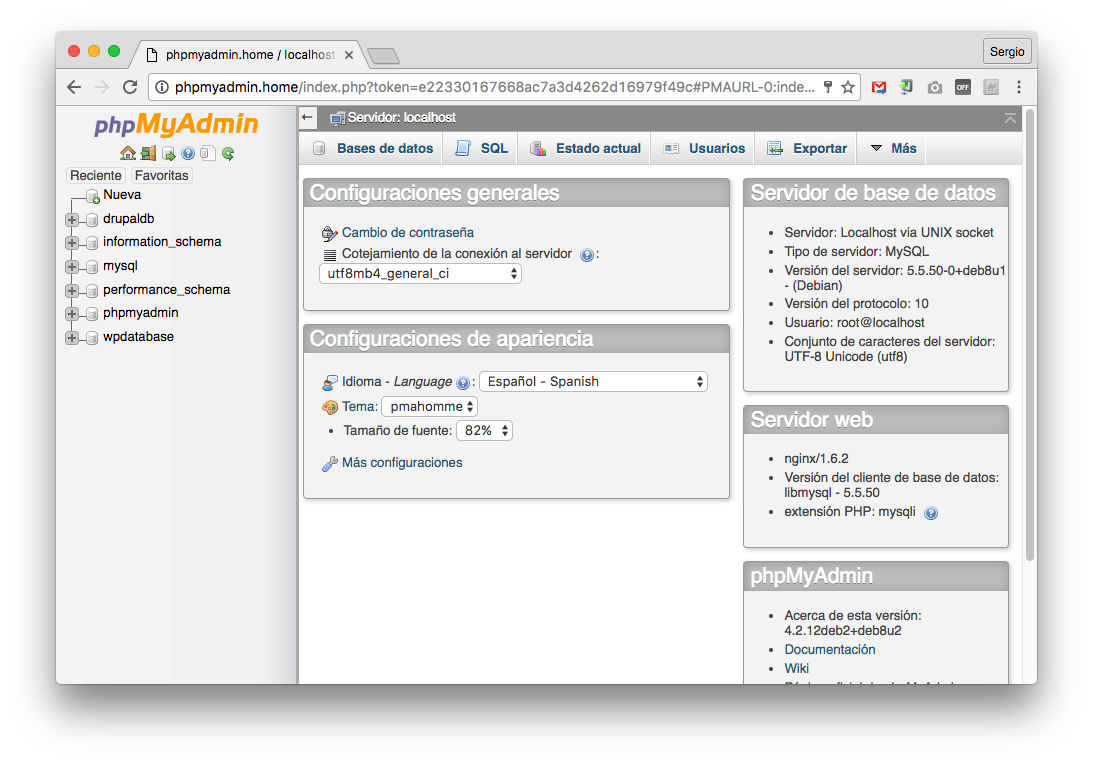
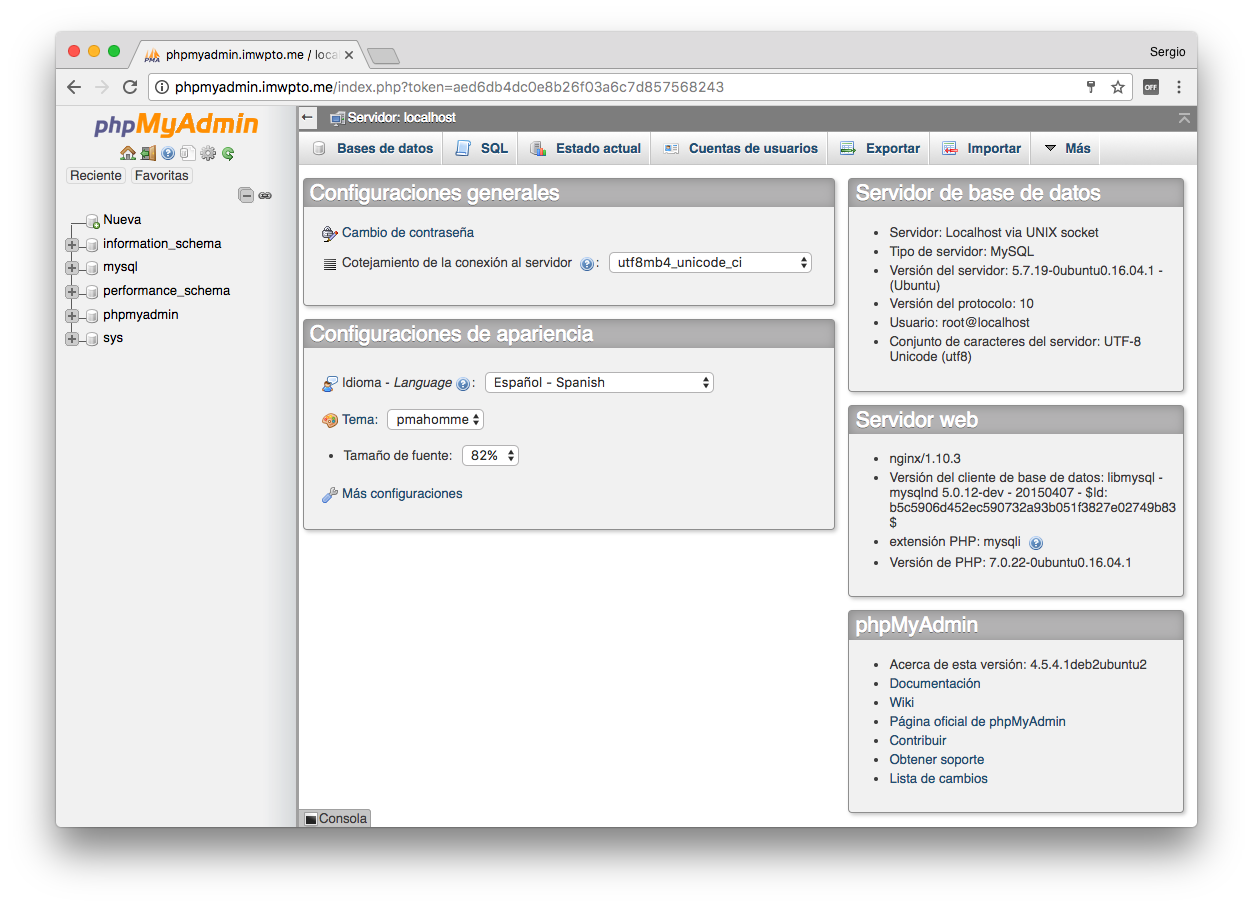
Updated contents of PhpMyAdmin

Changed region(s): [[0.0311, 0.0301, 0.9643, 0.9634]]

diff --git a/imw/UT1/notes/phpmyadmin/README.md b/imw/UT1/notes/phpmyadmin/README.md
@@ -9,75 +9,215 @@ La herramienta más extendida para ello se denomina **phpMyAdmin**. Está implem
 Para su instalación, usaremos el paquete preparado a tal efecto:
 
 ```console
-root@hillvalley:~# apt-get install phpmyadmin
+sdelquin@cloud:~$ sudo apt-get install phpmyadmin
 Leyendo lista de paquetes... Hecho
 Creando árbol de dependencias
 Leyendo la información de estado... Hecho
-Se instalarán los siguientes paquetes extras:
-  dbconfig-common libjs-sphinxdoc libjs-underscore libltdl7 libmcrypt4 php-gettext php-tcpdf php5-gd php5-mcrypt
-  php5-mysql
+Se instalarán los siguientes paquetes adicionales:
+  dbconfig-common dbconfig-mysql javascript-common libjs-jquery libjs-sphinxdoc libjs-underscore
+  libmcrypt4 php-gd php-gettext php-mbstring php-mcrypt php-mysql php-pear php-phpseclib php-tcpdf
+  php-xml php7.0-gd php7.0-mbstring php7.0-mcrypt php7.0-mysql php7.0-xml
 Paquetes sugeridos:
-  libmcrypt-dev mcrypt php5-imagick
+  libmcrypt-dev mcrypt php-libsodium php-gmp php-imagick www-browser
 Se instalarán los siguientes paquetes NUEVOS:
-  dbconfig-common libjs-sphinxdoc libjs-underscore libltdl7 libmcrypt4 php-gettext php-tcpdf php5-gd php5-mcrypt
-  php5-mysql phpmyadmin
-0 actualizados, 11 nuevos se instalarán, 0 para eliminar y 0 no actualizados.
-Se necesita descargar 12,7 MB de archivos.
-Se utilizarán 47,2 MB de espacio de disco adicional después de esta operación.
+  dbconfig-common dbconfig-mysql javascript-common libjs-jquery libjs-sphinxdoc libjs-underscore
+  libmcrypt4 php-gd php-gettext php-mbstring php-mcrypt php-mysql php-pear php-phpseclib php-tcpdf
+  php-xml php7.0-gd php7.0-mbstring php7.0-mcrypt php7.0-mysql php7.0-xml phpmyadmin
+0 actualizados, 22 nuevos se instalarán, 0 para eliminar y 22 no actualizados.
+Se necesita descargar 12,6 MB/14,0 MB de archivos.
+Se utilizarán 54,0 MB de espacio de disco adicional después de esta operación.
 ¿Desea continuar? [S/n]
-Des:1 http://ftp.es.debian.org/debian/ jessie/main libltdl7 amd64 2.4.2-1.11 [45,2 kB]
-Des:2 http://security.debian.org/ jessie/updates/main php5-gd amd64 5.6.24+dfsg-0+deb8u1 [28,8 kB]
-Des:3 http://ftp.es.debian.org/debian/ jessie/main dbconfig-common all 1.8.47+nmu3+deb8u1 [628 kB]
-Des:4 http://security.debian.org/ jessie/updates/main php5-mcrypt amd64 5.6.24+dfsg-0+deb8u1 [15,5 kB]
-Des:5 http://security.debian.org/ jessie/updates/main php5-mysql amd64 5.6.24+dfsg-0+deb8u1 [65,1 kB]
-Des:6 http://ftp.es.debian.org/debian/ jessie/main libjs-underscore all 1.7.0~dfsg-1 [49,9 kB]
-Des:7 http://security.debian.org/ jessie/updates/main phpmyadmin all 4:4.2.12-2+deb8u2 [3.853 kB]
-Des:8 http://ftp.es.debian.org/debian/ jessie/main libjs-sphinxdoc all 1.2.3+dfsg-1 [41,1 kB]
-Des:9 http://ftp.es.debian.org/debian/ jessie/main libmcrypt4 amd64 2.5.8-3.3 [71,2 kB]
-Des:10 http://ftp.es.debian.org/debian/ jessie/main php-gettext all 1.0.11-1 [17,3 kB]
-Des:11 http://ftp.es.debian.org/debian/ jessie/main php-tcpdf all 6.0.093+dfsg-1 [7.878 kB]
-Descargados 12,7 MB en 1s (8.743 kB/s)
+Des:1 http://ams2.mirrors.digitalocean.com/ubuntu xenial-updates/universe amd64 php7.0-mbstring amd64 7.0.22-0ubuntu0.16.04.1 [466 kB]
+Des:2 http://ams2.mirrors.digitalocean.com/ubuntu xenial/universe amd64 php-mbstring all 1:7.0+35ubuntu6 [1.940 B]
+Des:3 http://ams2.mirrors.digitalocean.com/ubuntu xenial-updates/universe amd64 php7.0-mcrypt amd64 7.0.22-0ubuntu0.16.04.1 [14,5 kB]
+Des:4 http://ams2.mirrors.digitalocean.com/ubuntu xenial/universe amd64 php-mcrypt all 1:7.0+35ubuntu6 [1.930 B]
+Des:5 http://ams2.mirrors.digitalocean.com/ubuntu xenial-updates/main amd64 php7.0-mysql amd64 7.0.22-0ubuntu0.16.04.1 [124 kB]
+Des:6 http://ams2.mirrors.digitalocean.com/ubuntu xenial/main amd64 php-mysql all 1:7.0+35ubuntu6 [1.936 B]
+Des:7 http://ams2.mirrors.digitalocean.com/ubuntu xenial/universe amd64 php-phpseclib all 2.0.1-1build1 [173 kB]
+Des:8 http://ams2.mirrors.digitalocean.com/ubuntu xenial/universe amd64 php-tcpdf all 6.0.093+dfsg-1ubuntu1 [7.881 kB]
+Des:9 http://ams2.mirrors.digitalocean.com/ubuntu xenial-updates/universe amd64 phpmyadmin all 4:4.5.4.1-2ubuntu2 [3.934 kB]
+Descargados 12,5 MB en 52s (236 kB/s)
 Preconfigurando paquetes ...
 ```
 
 El programa de instalación nos abrirá varios diálogos para configurar nuestro *phpMyAdmin*. En primer lugar nos pregunta por el servidor web que vamos a utilizar. Las dos únicas alternativas que ofrece son:
-* apache2
-* lighthttpd
+* `apache2`
+* `lighthttpd`
 
-Dado que nosotros utilizamos *Nginx*, lo dejamos en blanco y pulsamos en <kbd>Aceptar</kbd>:
+Dado que nosotros utilizamos *Nginx*, lo dejamos en blanco y pulsamos en <kbd>Ok</kbd>:
 
 ![](img/phpmyadmin01.png)
 
-A continuación el programa de instalación debe crear una base de datos para que *phpMyAdmin* pueda trabajar. Pulsamos el botón <kbd>Sí</kbd>
+A continuación el programa de instalación debe crear una base de datos para que *phpMyAdmin* pueda trabajar. Pulsamos el botón <kbd>Yes</kbd>
 
 ![](img/phpmyadmin02.png)
 
-Para ello, nos solicita la contraseña del usuario `root` de **MySQL**:
+En la siguiente pantalla nos solicita una contraseña con la que registrar la base de datos en *MySQL*:
+
+> Ojo que tenemos que cumplir con la directiva de seguridad de contraseñas establecidas en el servidor *MySQL*.
 
 ![](img/phpmyadmin03.png)
 
-El programa de instalación también creará un usuario y una contraseña específicos, que son los que se usarán para acceder a la base de datos. En la siguiente pantalla es donde debemos crear una contraseña de acceso a la base de datos para *phpMyAdmin*:
+Volvemos a repetir la contraseña:
 
 ![](img/phpmyadmin04.png)
 
-Después de esto, el programa de instalación termina de configurar los paquetes pendientes. Pero aún no hemos acabado, ya que debemos configurar nuestro **Nginx** para que pueda servir **phpMyAdmin**.
-
-Vamos a crear un *virtual host* para la url `http://phpmyadmin.ies` que nos permita trabajar con la plataforma:
+Después de esto, el programa de instalación termina de configurar los paquetes pendientes:
 
 ```console
-root@hillvalley:~# vi /etc/nginx/sites-available/phpmyadmin
+Seleccionando el paquete dbconfig-common previamente no seleccionado.
+(Leyendo la base de datos ... 86287 ficheros o directorios instalados actualmente.)
+Preparando para desempaquetar .../dbconfig-common_2.0.4ubuntu1_all.deb ...
+Desempaquetando dbconfig-common (2.0.4ubuntu1) ...
+Seleccionando el paquete dbconfig-mysql previamente no seleccionado.
+Preparando para desempaquetar .../dbconfig-mysql_2.0.4ubuntu1_all.deb ...
+Desempaquetando dbconfig-mysql (2.0.4ubuntu1) ...
+Seleccionando el paquete javascript-common previamente no seleccionado.
+Preparando para desempaquetar .../javascript-common_11_all.deb ...
+Desempaquetando javascript-common (11) ...
+Seleccionando el paquete libjs-jquery previamente no seleccionado.
+Preparando para desempaquetar .../libjs-jquery_1.11.3+dfsg-4_all.deb ...
+Desempaquetando libjs-jquery (1.11.3+dfsg-4) ...
+Seleccionando el paquete libjs-underscore previamente no seleccionado.
+Preparando para desempaquetar .../libjs-underscore_1.7.0~dfsg-1ubuntu1_all.deb ...
+Desempaquetando libjs-underscore (1.7.0~dfsg-1ubuntu1) ...
+Seleccionando el paquete libjs-sphinxdoc previamente no seleccionado.
+Preparando para desempaquetar .../libjs-sphinxdoc_1.3.6-2ubuntu1.1_all.deb ...
+Desempaquetando libjs-sphinxdoc (1.3.6-2ubuntu1.1) ...
+Seleccionando el paquete libmcrypt4 previamente no seleccionado.
+Preparando para desempaquetar .../libmcrypt4_2.5.8-3.3_amd64.deb ...
+Desempaquetando libmcrypt4 (2.5.8-3.3) ...
+Seleccionando el paquete php7.0-gd previamente no seleccionado.
+Preparando para desempaquetar .../php7.0-gd_7.0.22-0ubuntu0.16.04.1_amd64.deb ...
+Desempaquetando php7.0-gd (7.0.22-0ubuntu0.16.04.1) ...
+Seleccionando el paquete php-gd previamente no seleccionado.
+Preparando para desempaquetar .../php-gd_1%3a7.0+35ubuntu6_all.deb ...
+Desempaquetando php-gd (1:7.0+35ubuntu6) ...
+Seleccionando el paquete php7.0-xml previamente no seleccionado.
+Preparando para desempaquetar .../php7.0-xml_7.0.22-0ubuntu0.16.04.1_amd64.deb ...
+Desempaquetando php7.0-xml (7.0.22-0ubuntu0.16.04.1) ...
+Seleccionando el paquete php-xml previamente no seleccionado.
+Preparando para desempaquetar .../php-xml_1%3a7.0+35ubuntu6_all.deb ...
+Desempaquetando php-xml (1:7.0+35ubuntu6) ...
+Seleccionando el paquete php-pear previamente no seleccionado.
+Preparando para desempaquetar .../php-pear_1%3a1.10.1+submodules+notgz-6_all.deb ...
+Desempaquetando php-pear (1:1.10.1+submodules+notgz-6) ...
+Seleccionando el paquete php-gettext previamente no seleccionado.
+Preparando para desempaquetar .../php-gettext_1.0.11-2build1_all.deb ...
+Desempaquetando php-gettext (1.0.11-2build1) ...
+Seleccionando el paquete php7.0-mbstring previamente no seleccionado.
+Preparando para desempaquetar .../php7.0-mbstring_7.0.22-0ubuntu0.16.04.1_amd64.deb ...
+Desempaquetando php7.0-mbstring (7.0.22-0ubuntu0.16.04.1) ...
+Seleccionando el paquete php-mbstring previamente no seleccionado.
+Preparando para desempaquetar .../php-mbstring_1%3a7.0+35ubuntu6_all.deb ...
+Desempaquetando php-mbstring (1:7.0+35ubuntu6) ...
+Seleccionando el paquete php7.0-mcrypt previamente no seleccionado.
+Preparando para desempaquetar .../php7.0-mcrypt_7.0.22-0ubuntu0.16.04.1_amd64.deb ...
+Desempaquetando php7.0-mcrypt (7.0.22-0ubuntu0.16.04.1) ...
+Seleccionando el paquete php-mcrypt previamente no seleccionado.
+Preparando para desempaquetar .../php-mcrypt_1%3a7.0+35ubuntu6_all.deb ...
+Desempaquetando php-mcrypt (1:7.0+35ubuntu6) ...
+Seleccionando el paquete php7.0-mysql previamente no seleccionado.
+Preparando para desempaquetar .../php7.0-mysql_7.0.22-0ubuntu0.16.04.1_amd64.deb ...
+Desempaquetando php7.0-mysql (7.0.22-0ubuntu0.16.04.1) ...
+Seleccionando el paquete php-mysql previamente no seleccionado.
+Preparando para desempaquetar .../php-mysql_1%3a7.0+35ubuntu6_all.deb ...
+Desempaquetando php-mysql (1:7.0+35ubuntu6) ...
+Seleccionando el paquete php-phpseclib previamente no seleccionado.
+Preparando para desempaquetar .../php-phpseclib_2.0.1-1build1_all.deb ...
+Desempaquetando php-phpseclib (2.0.1-1build1) ...
+Seleccionando el paquete php-tcpdf previamente no seleccionado.
+Preparando para desempaquetar .../php-tcpdf_6.0.093+dfsg-1ubuntu1_all.deb ...
+Desempaquetando php-tcpdf (6.0.093+dfsg-1ubuntu1) ...
+Seleccionando el paquete phpmyadmin previamente no seleccionado.
+Preparando para desempaquetar .../phpmyadmin_4%3a4.5.4.1-2ubuntu2_all.deb ...
+Desempaquetando phpmyadmin (4:4.5.4.1-2ubuntu2) ...
+Procesando disparadores para man-db (2.7.5-1) ...
+Procesando disparadores para php7.0-fpm (7.0.22-0ubuntu0.16.04.1) ...
+Configurando dbconfig-common (2.0.4ubuntu1) ...
+
+Creating config file /etc/dbconfig-common/config with new version
+Configurando dbconfig-mysql (2.0.4ubuntu1) ...
+Configurando javascript-common (11) ...
+Configurando libjs-jquery (1.11.3+dfsg-4) ...
+Configurando libjs-underscore (1.7.0~dfsg-1ubuntu1) ...
+Configurando libjs-sphinxdoc (1.3.6-2ubuntu1.1) ...
+Configurando libmcrypt4 (2.5.8-3.3) ...
+Configurando php7.0-gd (7.0.22-0ubuntu0.16.04.1) ...
+
+Creating config file /etc/php/7.0/mods-available/gd.ini with new version
+Configurando php-gd (1:7.0+35ubuntu6) ...
+Configurando php7.0-xml (7.0.22-0ubuntu0.16.04.1) ...
+
+Creating config file /etc/php/7.0/mods-available/dom.ini with new version
+
+Creating config file /etc/php/7.0/mods-available/simplexml.ini with new version
+
+Creating config file /etc/php/7.0/mods-available/wddx.ini with new version
+
+Creating config file /etc/php/7.0/mods-available/xml.ini with new version
+
+Creating config file /etc/php/7.0/mods-available/xmlreader.ini with new version
+
+Creating config file /etc/php/7.0/mods-available/xmlwriter.ini with new version
+
+Creating config file /etc/php/7.0/mods-available/xsl.ini with new version
+Configurando php-xml (1:7.0+35ubuntu6) ...
+Configurando php-pear (1:1.10.1+submodules+notgz-6) ...
+Configurando php-gettext (1.0.11-2build1) ...
+Configurando php7.0-mbstring (7.0.22-0ubuntu0.16.04.1) ...
+
+Creating config file /etc/php/7.0/mods-available/mbstring.ini with new version
+Configurando php-mbstring (1:7.0+35ubuntu6) ...
+Configurando php7.0-mcrypt (7.0.22-0ubuntu0.16.04.1) ...
+
+Creating config file /etc/php/7.0/mods-available/mcrypt.ini with new version
+Configurando php-mcrypt (1:7.0+35ubuntu6) ...
+Configurando php7.0-mysql (7.0.22-0ubuntu0.16.04.1) ...
+
+Creating config file /etc/php/7.0/mods-available/mysqlnd.ini with new version
+
+Creating config file /etc/php/7.0/mods-available/mysqli.ini with new version
+
+Creating config file /etc/php/7.0/mods-available/pdo_mysql.ini with new version
+Configurando php-mysql (1:7.0+35ubuntu6) ...
+Configurando php-phpseclib (2.0.1-1build1) ...
+Configurando php-tcpdf (6.0.093+dfsg-1ubuntu1) ...
+Configurando phpmyadmin (4:4.5.4.1-2ubuntu2) ...
+Determining localhost credentials from /etc/mysql/debian.cnf: succeeded.
+dbconfig-common: writing config to /etc/dbconfig-common/phpmyadmin.conf
+
+Creating config file /etc/dbconfig-common/phpmyadmin.conf with new version
+
+Creating config file /etc/phpmyadmin/config-db.php with new version
+granting access to database phpmyadmin for phpmyadmin@localhost: success.
+verifying access for phpmyadmin@localhost: success.
+creating database phpmyadmin: success.
+verifying database phpmyadmin exists: success.
+populating database via sql...  done.
+dbconfig-common: flushing administrative password
+sdelquin@cloud:~$
+```
+
+## Activación en Nginx
+
+Pero aún no hemos acabado, ya que debemos configurar nuestro **Nginx** para que pueda servir **phpMyAdmin**.
+
+Vamos a crear un *virtual host* para la url `http://phpmyadmin.imwpto.me` que nos permita trabajar con la plataforma:
+
+```console
+sdelquin@cloud:~$ sudo vi /etc/nginx/sites-available/phpmyadmin
 ```
 
 > Contenido
 ```nginx
 server {
-    server_name phpmyadmin.home;
+    server_name phpmyadmin.imwpto.me;
     index index.php;
     root /usr/share/phpmyadmin;
     location ~ \.php$ {
-        try_files $uri =404;
         include snippets/fastcgi-php.conf;
-        fastcgi_pass unix:/var/run/php5-fpm.sock;
+        fastcgi_pass unix:/run/php/php7.0-fpm.sock;
     }
 }
 ```
@@ -85,16 +225,24 @@ server {
 Ahora enlazamos el *virtual host* en los sitios disponibles:
 
 ```console
-root@hillvalley:~# cd /etc/nginx/sites-enabled/
-root@hillvalley:/etc/nginx/sites-enabled# ln -s ../sites-available/phpmyadmin
+sdelquin@cloud:~$ cd /etc/nginx/sites-enabled/
+sdelquin@cloud:/etc/nginx/sites-enabled$ sudo ln -s ../sites-available/phpmyadmin
+[sudo] password for sdelquin:
+sdelquin@cloud:/etc/nginx/sites-enabled$ ls -l
+total 0
+lrwxrwxrwx 1 root root 34 sep 21 15:09 default -> /etc/nginx/sites-available/default
+lrwxrwxrwx 1 root root 24 oct  1 10:37 hello -> ../sites-available/hello
+lrwxrwxrwx 1 root root 29 oct  1 16:36 phpmyadmin -> ../sites-available/phpmyadmin
+lrwxrwxrwx 1 root root 24 sep 24 13:52 share -> ../sites-available/share
+lrwxrwxrwx 1 root root 22 sep 24 17:14 ssl -> ../sites-available/ssl
+sdelquin@cloud:/etc/nginx/sites-enabled$
 ```
 
 Ahora sólo nos queda recargar el servidor web:
 
 ```console
-root@hillvalley:~# /etc/init.d/nginx reload
-[ ok ] Reloading nginx configuration (via systemctl): nginx.service.
-root@hillvalley:~#
+sdelquin@cloud:~$ sudo systemctl reload nginx
+sdelquin@cloud:~$
 ```
 
 Con esto, ya podemos acceder a través de un navegador a la dirección en la que hemos configurado nuestro *phpMyAdmin*:
@@ -105,4 +253,4 @@ Introducimos el usuario y contraseña `root` del sistema gestor de bases de dato
 
 ![](img/phpmyadmin06.png)
 
-* [x] Instalación de **phpMyAdmin**
+✅ Instalación de **phpMyAdmin**
